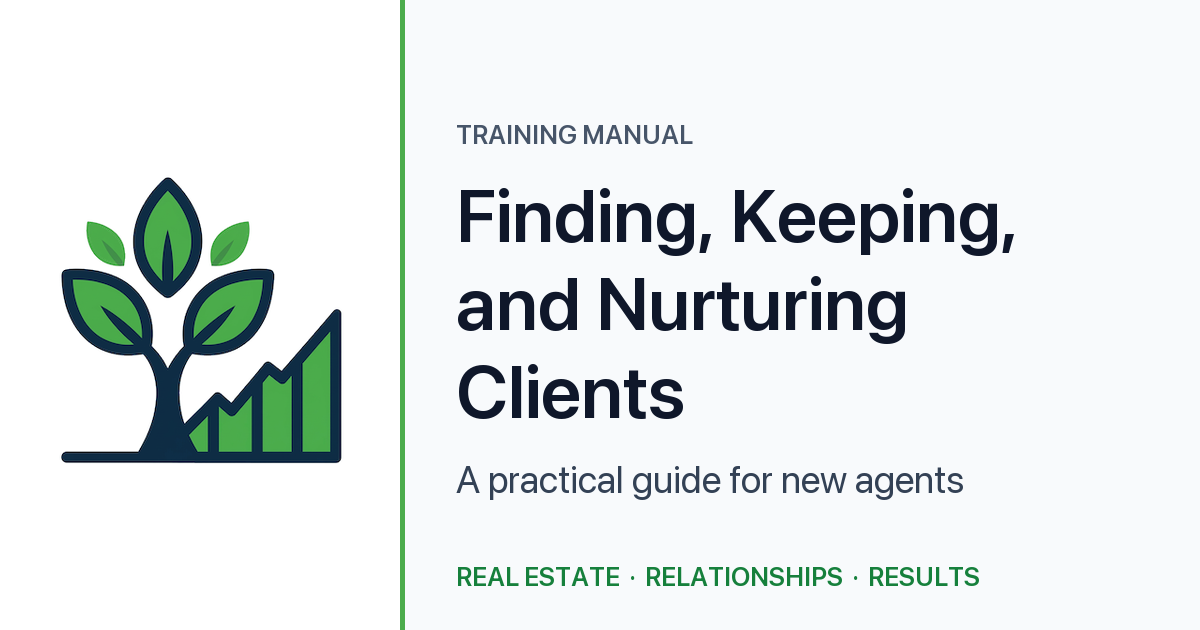
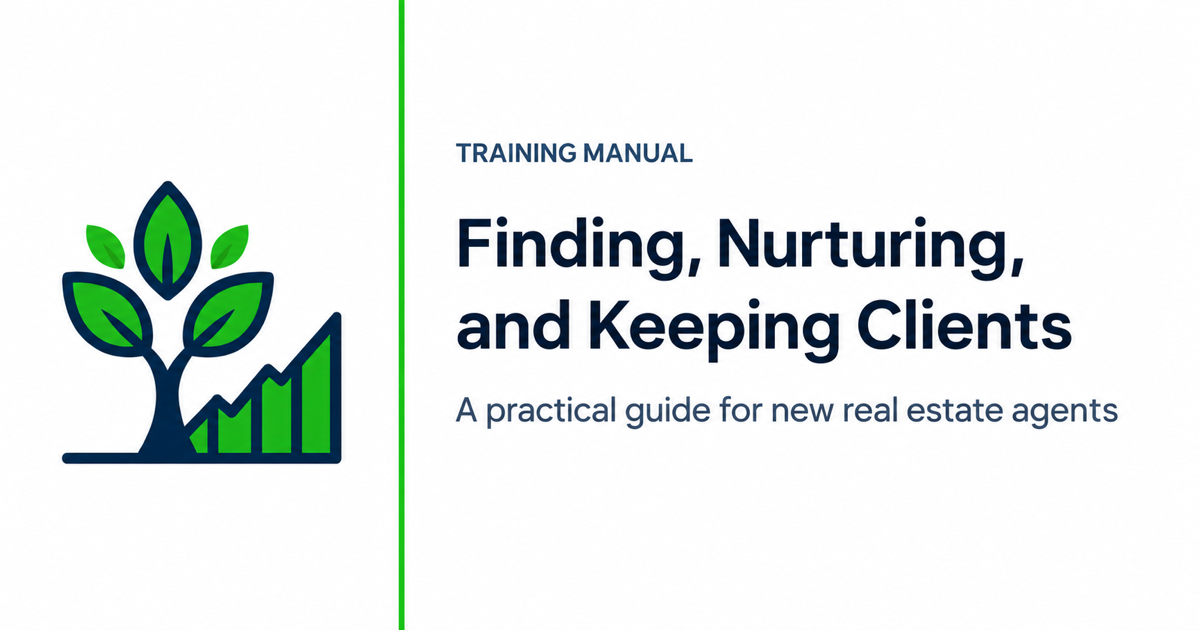
chore(content): rename the book to Finding, Nurturing, and Keeping Clients
The handbook teaches the loop as find, nurture, keep everywhere except
the title, and the planned domain is findnurturekeep.com. The title now
follows the same order. The subtitle names real estate agents, the cover
and share image carry both, and the structured data lists the author.

diff --git a/docs/cutover/pages-stub-index.html b/docs/cutover/pages-stub-index.html
@@ -3,7 +3,7 @@
 <head>
     <meta charset="utf-8">
     <meta name="viewport" content="width=device-width, initial-scale=1">
-    <title>Finding, Keeping, and Nurturing Clients has moved</title>
+    <title>Finding, Nurturing, and Keeping Clients has moved</title>
     <meta name="robots" content="noindex">
     <!-- At cutover, replace __NEW_ORIGIN__ with the new site's address (no trailing slash), for example https://handbook.example -->
     <link rel="canonical" href="__NEW_ORIGIN__/">
@@ -18,7 +18,7 @@
 </head>
 <body>
     <h1>The handbook has moved</h1>
-    <p>Finding, Keeping, and Nurturing Clients now lives at <a id="new" href="__NEW_ORIGIN__/">__NEW_ORIGIN__</a>.</p>
+    <p>Finding, Nurturing, and Keeping Clients now lives at <a id="new" href="__NEW_ORIGIN__/">__NEW_ORIGIN__</a>.</p>
     <div id="progress" hidden>
         <p><strong>You have saved progress on this device.</strong> Your browser keeps it per web address, so it does not move by itself. Save it to a file first, then on the new site open Settings in the menu and choose <em>Restore from a file</em>.</p>
         <p><button type="button" class="save" id="save">Download my progress</button> <a class="go" id="go" href="__NEW_ORIGIN__/">Continue to the new handbook</a></p>

diff --git a/lib/leads/mail.ts b/lib/leads/mail.ts
@@ -11,7 +11,7 @@ export type Message = { subject: string; text: string };
 
 export function mailFromEnv(env: Record<string, string | undefined>): MailConfig {
   const from = env.LEAD_FROM_EMAIL;
-  const common = { fromName: env.LEAD_FROM_NAME ?? 'Finding, Keeping, and Nurturing Clients', replyTo: env.LEAD_REPLY_TO ?? from, mailingAddress: env.LEAD_MAILING_ADDRESS ?? '' };
+  const common = { fromName: env.LEAD_FROM_NAME ?? 'Finding, Nurturing, and Keeping Clients', replyTo: env.LEAD_REPLY_TO ?? from, mailingAddress: env.LEAD_MAILING_ADDRESS ?? '' };
   if (env.SENDGRID_API_KEY) {
     // a commercial email needs a real sender and the author's postal address (CAN-SPAM); without them send nothing
     if (!from || !common.mailingAddress) return { provider: 'none' };
@@ -26,7 +26,7 @@ export function confirmationMessage(link: string, address: string): Message {
   return {
     subject: 'Confirm your email for handbook notes',
     text: [
-      'You asked for notes about Finding, Keeping, and Nurturing Clients. Open this link to confirm your address:',
+      'You asked for notes about Finding, Nurturing, and Keeping Clients. Open this link to confirm your address:',
       '',
       link,
       '',

diff --git a/lib/auth/mail.ts b/lib/auth/mail.ts
@@ -9,7 +9,7 @@ import { TOKEN_TTL_SECONDS } from './config';
  */
 export function authMailFromEnv(env: Record<string, string | undefined>): MailConfig {
   const from = env.LEAD_FROM_EMAIL;
-  const common = { fromName: env.LEAD_FROM_NAME ?? 'Finding, Keeping, and Nurturing Clients', replyTo: env.LEAD_REPLY_TO ?? from, mailingAddress: env.LEAD_MAILING_ADDRESS ?? '' };
+  const common = { fromName: env.LEAD_FROM_NAME ?? 'Finding, Nurturing, and Keeping Clients', replyTo: env.LEAD_REPLY_TO ?? from, mailingAddress: env.LEAD_MAILING_ADDRESS ?? '' };
   if (env.SENDGRID_API_KEY) {
     if (!from) return { provider: 'none' };
     return { provider: 'sendgrid', apiKey: env.SENDGRID_API_KEY, from, ...common };
@@ -23,7 +23,7 @@ export function signInMessage(link: string): Message {
   return {
     subject: 'Your sign-in link',
     text: [
-      'Open this link to sign in to Finding, Keeping, and Nurturing Clients:',
+      'Open this link to sign in to Finding, Nurturing, and Keeping Clients:',
       '',
       link,
       '',

diff --git a/lib/jsonld.test.ts b/lib/jsonld.test.ts
@@ -4,7 +4,8 @@ import { bookJsonLd, chapterJsonLd, jsonLdScript } from './jsonld';
 describe('structured data', () => {
   it('describes the book the way the static site did', () => {
     const book = bookJsonLd();
-    expect(book).toMatchObject({ '@type': 'Book', name: 'Finding, Keeping, and Nurturing Clients', inLanguage: 'en', bookEdition: '1.0', datePublished: '2026-10', genre: 'Real estate training' });
+    expect(book).toMatchObject({ '@type': 'Book', name: 'Finding, Nurturing, and Keeping Clients', inLanguage: 'en', bookEdition: '1.0', datePublished: '2026-10', genre: 'Real estate training' });
+    expect(book.author).toEqual({ '@type': 'Person', name: 'Brian Pitts', honorificSuffix: 'M.D.' });
     expect(book.audience).toEqual({ '@type': 'Audience', audienceType: 'New real estate agents' });
     expect(book.about).toHaveLength(4);
     expect(book.url).toMatch(/^https?:\/\/[^/]+(\/.*)?\/$/);

diff --git a/content/pages/app-d.html b/content/pages/app-d.html
@@ -48,4 +48,4 @@
                     <dt>Value piece</dt>
                     <dd>A touch that gives something useful (a report, a guide, an introduction) rather than asking for something.</dd>
                 </dl>
-                <p class="colophon"><em>Finding, Keeping, and Nurturing Clients: a practical guide for new agents. Figures 1 to 5 supplied by the author; Figures 6 and 7 drawn for this edition. Conversion figures are typical industry ranges and will vary by market. Nothing here is legal advice; consult your broker.</em></p>
+                <p class="colophon"><em>Finding, Nurturing, and Keeping Clients: a practical guide for new real estate agents. Figures 1 to 5 supplied by the author; Figures 6 and 7 drawn for this edition. Conversion figures are typical industry ranges and will vary by market. Nothing here is legal advice; consult your broker.</em></p>

diff --git a/e2e/semantic-html.spec.ts b/e2e/semantic-html.spec.ts
@@ -8,7 +8,7 @@ test('a chapter has one h1, real landmarks, and the previous heading sizes', asy
   await expect(page.locator('h1')).toHaveCount(1);
   await expect(page.locator('h1')).toHaveText('1. Mindset and business foundations');
   await expect(page.locator('article.chapter-section')).toHaveCount(1);
-  await expect(page.locator('p.sidebar-title')).toHaveText('Finding, Keeping, and Nurturing Clients');
+  await expect(page.locator('p.sidebar-title')).toHaveText('Finding, Nurturing, and Keeping Clients');
   await expect(page.locator('search.nav-search')).toHaveCount(1);
   // a searchbox is not a disclosure: the result count in #searchStatus is what announces the results
   await expect(page.locator('#navSearch')).not.toHaveAttribute('aria-controls');

diff --git a/content/pages/cover.html b/content/pages/cover.html
@@ -1,6 +1,6 @@
 <div class="chapter-page active" id="cover">
     <div style="text-align: center; padding: 20px 0;">
-        <h1 class="visually-hidden">Finding, Keeping, and Nurturing Clients</h1>
-        <img src="/images/cover.png" alt="Inside Cover - Finding, Keeping, and Nurturing Clients" style="max-width: 100%; height: auto; border-radius: 8px; box-shadow: 0 4px 12px rgba(0,0,0,0.1);">
+        <h1 class="visually-hidden">Finding, Nurturing, and Keeping Clients</h1>
+        <img src="/images/cover.png" alt="Inside Cover - Finding, Nurturing, and Keeping Clients: A practical guide for new real estate agents, by Brian Pitts, M.D." style="max-width: 100%; height: auto; border-radius: 8px; box-shadow: 0 4px 12px rgba(0,0,0,0.1);">
     </div>
 </div>

diff --git a/components/shell/Sidebar.tsx b/components/shell/Sidebar.tsx
@@ -183,7 +183,7 @@ export function Sidebar({ locked = {} }: { locked?: Readonly<Record<string, stri
           {/* eslint-disable-next-line @next/next/no-img-element */}
           <img className="sidebar-logo logo-dark" src="/images/logo3-sidebar-dark.png" width={320} height={320} alt="" />
           <p className="sidebar-title"><Link href={HANDBOOK}>{BOOK_TITLE}</Link></p>
-          <p>A practical guide for new agents</p>
+          <p>A practical guide for new real estate agents</p>
         </div>
         <SidebarSearch onSearching={setSearching} onNavigate={() => setMenuOpen(false)} apiRef={searchApi}>
           <button

diff --git a/app/(public)/terms/page.tsx b/app/(public)/terms/page.tsx
@@ -13,7 +13,7 @@ export default function TermsPage() {
 
         <h2>What this is</h2>
         <p>
-          Finding, Keeping, and Nurturing Clients is training material for new real estate agents, with interactive tools. It is provided by{' '}
+          Finding, Nurturing, and Keeping Clients is training material for new real estate agents, with interactive tools. It is provided by{' '}
           {OWNER.businessName ?? 'the author'}. Using the site means you accept these terms once they are approved.
         </p>
         {!OWNER.businessName && <Decision>the legal name of the seller and a postal address.</Decision>}

diff --git a/app/(public)/about/page.tsx b/app/(public)/about/page.tsx
@@ -14,7 +14,7 @@ export default function AboutPage() {
   return (
     <>
       <PageHead eyebrow="About" title="Written for the agent who does not know what to do on Tuesday morning.">
-        Finding, Keeping, and Nurturing Clients is a practical training manual for agents in their first year, built to be worked through rather than just read.
+        Finding, Nurturing, and Keeping Clients is a practical training manual for agents in their first year, built to be worked through rather than just read.
       </PageHead>
       <div className="pub-wrap pub-narrow pub-prose">
         <h2>Who it is for</h2>

diff --git a/content/pages/pref.html b/content/pages/pref.html
@@ -1,7 +1,7 @@
 
                 <div class="part-label">Training Manual</div>
-                <h1>Finding, Keeping, and Nurturing Clients</h1>
-                <p><em>A practical guide for new agents</em>.</p>
+                <h1>Finding, Nurturing, and Keeping Clients</h1>
+                <p><em>A practical guide for new real estate agents</em>.</p>
                 <p style="letter-spacing: 2px; text-transform: uppercase; font-size: 0.8rem; color: #64748b; margin-top: -10px; margin-bottom: 24px;">REAL ESTATE · RELATIONSHIPS · RESULTS</p>
 
                 <h2 id="who-this-is-for">Who this is for</h2>

diff --git a/lib/pages.ts b/lib/pages.ts
@@ -36,7 +36,7 @@ export const NAV: NavGroup[] = [
 export const PAGES: PageEntry[] = NAV.flatMap(g => g.pages);
 export const PAGE_IDS = PAGES.map(x => x.id);
 
-export const BOOK_TITLE = 'Finding, Keeping, and Nurturing Clients';
+export const BOOK_TITLE = 'Finding, Nurturing, and Keeping Clients';
 export const BOOK_DESCRIPTION =
   'A practical training manual for new real estate agents: how to find clients, nurture leads and keep past clients, with scripts, calculators and a 90-day plan.';
 
